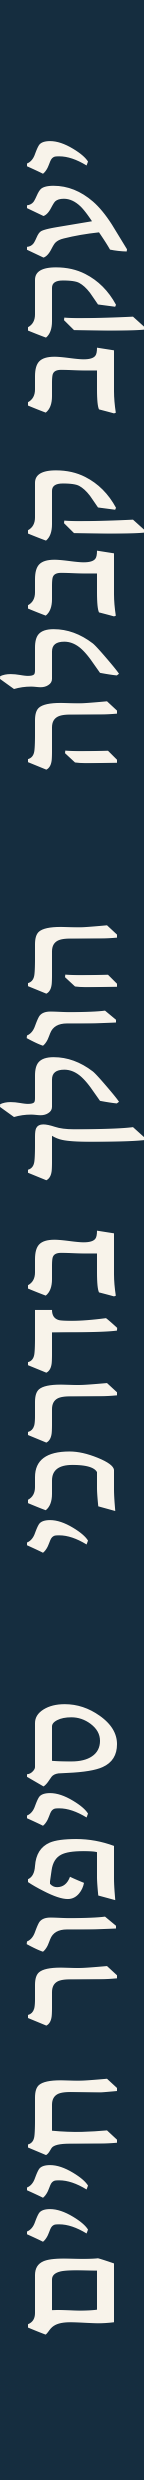
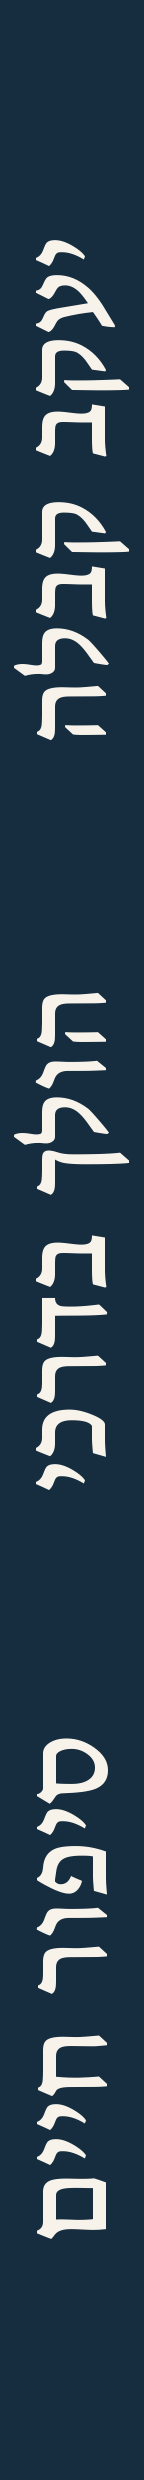
Spine viewer: scale spine font down (soft x0.90, hard x0.80); dark-mode build tag; cache-bust v=6

Changed region(s): [[0.0278, 0.031, 0.9722, 0.3105], [0.1944, 0.6831, 0.8056, 0.9625], [0.0278, 0.3726, 0.9722, 0.652]]

diff --git a/index.html b/index.html
@@ -487,6 +487,10 @@
   html.dark #spineCaption{color:#eee}
   html.dark #spineClose{color:#bbb}
   html.dark #spineClose:hover{background:#3a3a3a;color:#fff}
+  #buildTag{position:fixed;bottom:6px;left:8px;z-index:9999;font:11px/1.3 monospace;
+    color:rgba(90,90,90,.9);background:rgba(255,255,255,.6);padding:2px 6px;border-radius:4px;
+    pointer-events:none;border:1px solid rgba(0,0,0,.08)}
+  html.dark #buildTag{color:rgba(200,200,200,.85);background:rgba(30,30,30,.55);border-color:rgba(255,255,255,.12)}
   html.dark #tocPanel h2{color:#eee}
   html.dark #tocEdition{color:#9a9a9a}
   html.dark #tocClose{color:#bbb}
@@ -629,7 +633,7 @@
     <button id="spineClose" onclick="closeSpine()" title="סגור" aria-label="סגור">
       <svg viewBox="0 0 24 24" width="18" height="18"><path d="M6 6l12 12M18 6 6 18"/></svg>
     </button>
-    <div id="spineStage"><img id="spineImg" src="images/spines/woodfree180gsm_hardcover.png?v=5" alt="שדרת הספר"/></div>
+    <div id="spineStage"><img id="spineImg" src="images/spines/woodfree180gsm_hardcover.png?v=6" alt="שדרת הספר"/></div>
     <div id="spineControls">
       <div id="spineTypeSel" class="spine-seg">
         <button type="button" class="spine-seg-btn on" data-type="hardcover" onclick="setSpineType('hardcover')">כריכה קשה</button>
@@ -1539,7 +1543,7 @@ function renderSpine() {
   var paper = document.getElementById('spinePaperSel').value;
   var info = SPINE_PAPER_MM[paper];
   var img = document.getElementById('spineImg');
-  img.src = 'images/spines/' + paper + '_' + spineType + '.png?v=5';
+  img.src = 'images/spines/' + paper + '_' + spineType + '.png?v=6';
   var typeHeb = spineType === 'hardcover' ? 'כריכה קשה' : 'כריכה רכה';
   var mm = info[spineType];
   document.getElementById('spineCaption').textContent =
@@ -1588,7 +1592,7 @@ warm(srcs(edition), 4, function () {
 });
 </script>
 
-<div id="buildTag" style="position:fixed;bottom:6px;left:8px;z-index:9999;font:11px/1.3 monospace;color:rgba(120,120,120,.85);background:rgba(255,255,255,.55);padding:2px 6px;border-radius:4px;pointer-events:none;">build: 2026-08-18 00:39 GMT+3</div>
+<div id="buildTag">build: 2026-08-18 00:41 GMT+3</div>
 
 </body>
 </html>
